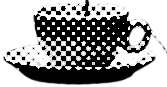
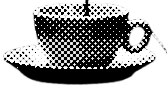
xicara

diff --git a/css/header.css b/css/header.css
@@ -5,7 +5,7 @@ header {
 .xicara {
     position: absolute;
     top: 0;
-    left: 1.5rem;
+    left: 1.2rem;
     width: 3.5rem;
     margin-top: 4rem;
     z-index: 1;
